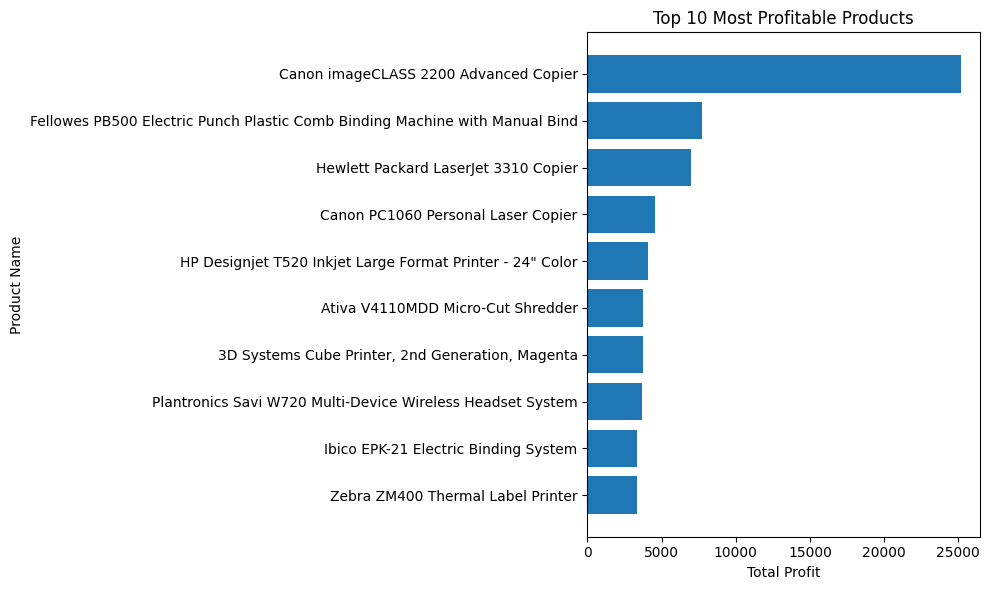
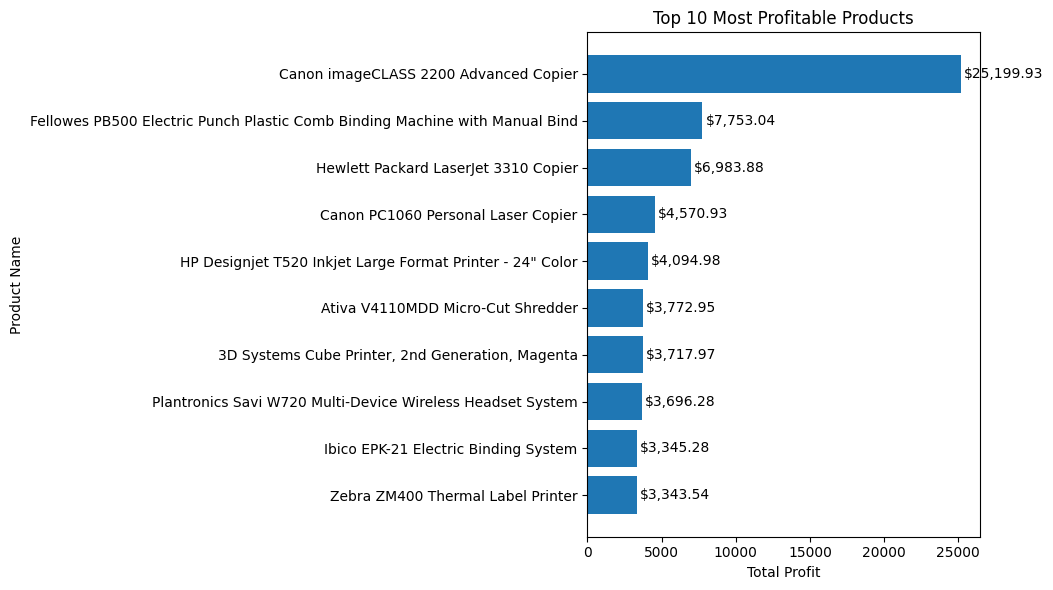
small improvement in code

diff --git a/report_gen.py b/report_gen.py
@@ -66,11 +66,14 @@ plt.close()
 
 # chart 2:top 10 profitable products
 plt.figure(figsize=(10,6))
-plt.barh(q2['product_name'].iloc[::-1], q2['total_profit'].iloc[::-1])
+bars = plt.barh(q2['product_name'].iloc[::-1], q2['total_profit'].iloc[::-1])
 plt.xlabel('Total Profit')
 plt.ylabel('Product Name')
 plt.title("Top 10 Most Profitable Products")
 plt.tight_layout()
+for bar in bars:
+        xval = bar.get_width()
+        plt.text(xval + 200, bar.get_y() + bar.get_height()/2, f"${xval:,.2f}", va="center", ha="left")
 plt.savefig('reports/charts/top_products.png', bbox_inches='tight')
 plt.close()
 